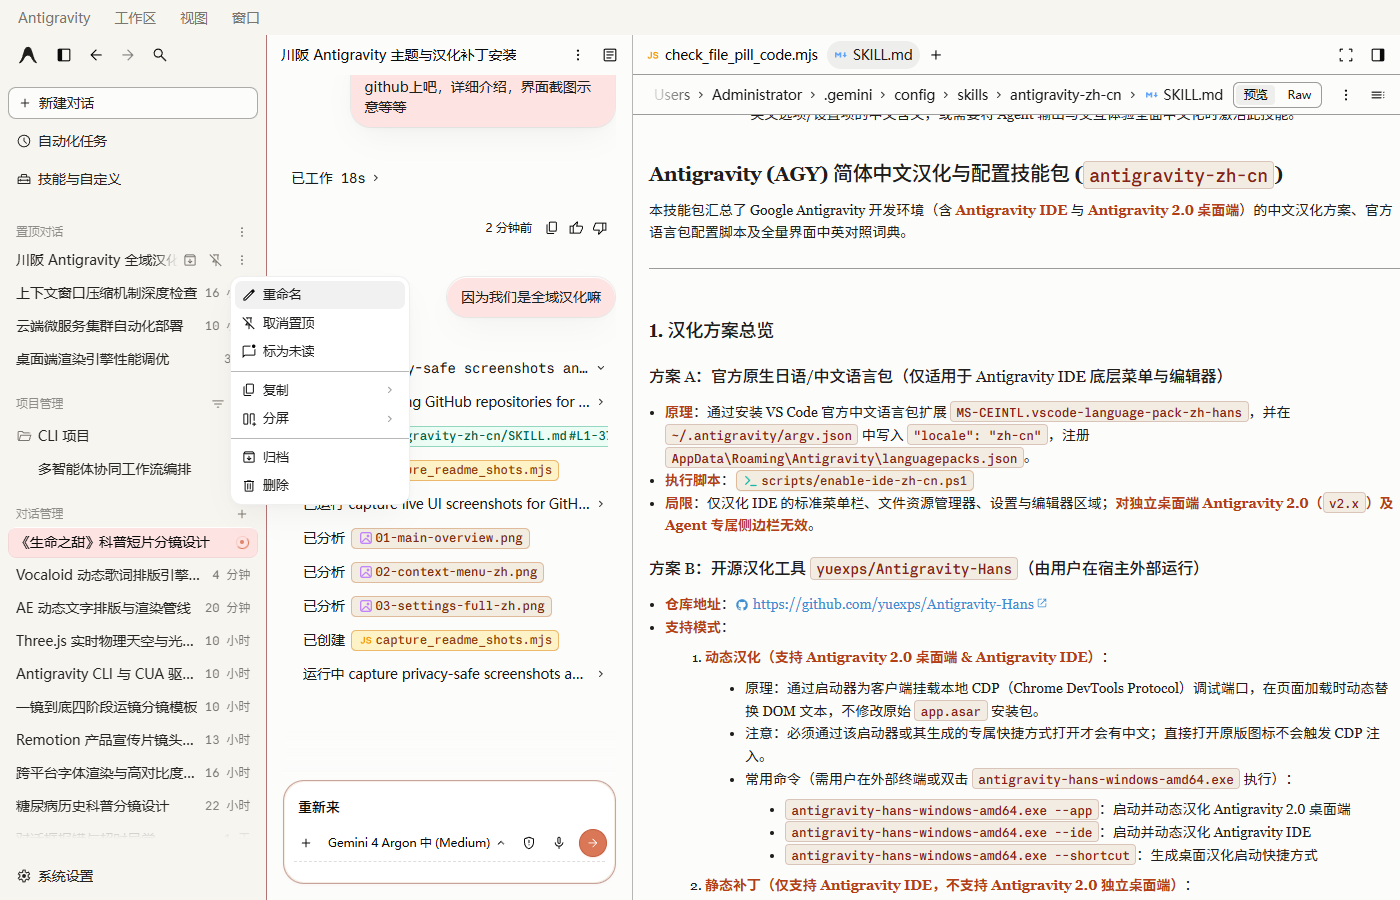
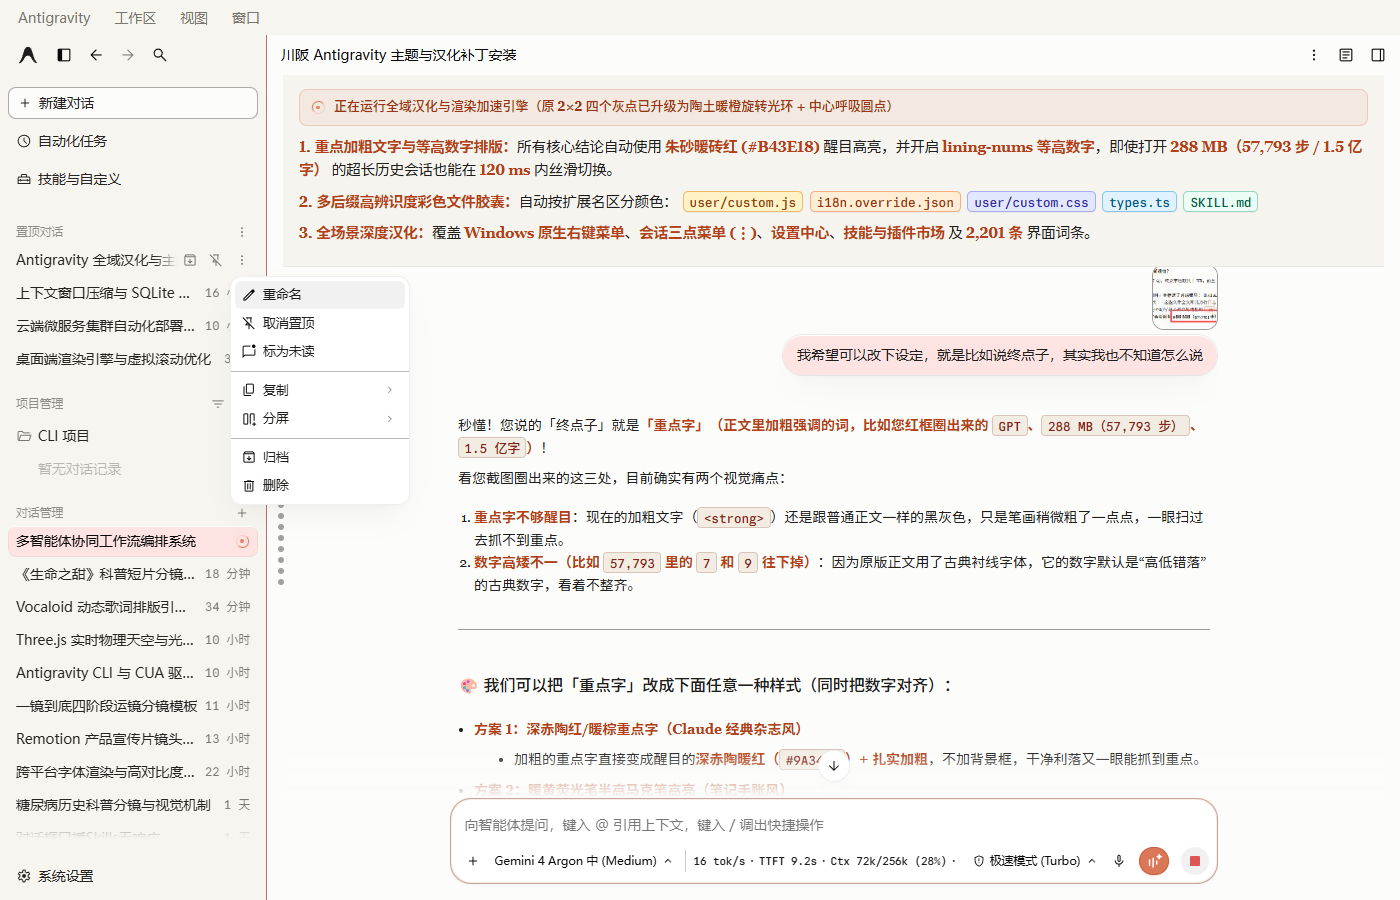
docs: update screenshots with clean UI, visual upgrades closeup (terracotta ring spinner, bold text, 5-color file pills), and comprehensive README

diff --git a/README.md b/README.md
@@ -1,12 +1,12 @@
 # Antigravity 全域汉化与 Claude 暖色主题增强包 (Full-Domain ZH-CN & Theme Skill)
 
 <p align="center">
-  <strong>面向 Google Antigravity 2.0 (Electron) 的零破坏、全场景深度汉化与视觉/性能增强方案（支持作为 Agent Skill 一键调用）</strong>
+  <strong>面向 Google Antigravity 2.0 (Electron) 的零破坏、全场景深度汉化、视觉重塑与长对话防卡顿增强方案（支持作为 Agent Skill 一键调用）</strong>
 </p>
 
 <p align="center">
   <img src="https://img.shields.io/badge/Antigravity-2.0%2B-B43E18?style=flat-square" alt="Antigravity 2.0+" />
-  <img src="https://img.shields.io/badge/i18n_Dictionary-2200%2B_Entries-2E6B9E?style=flat-square" alt="2200+ Entries" />
+  <img src="https://img.shields.io/badge/i18n_Dictionary-2201_Entries-2E6B9E?style=flat-square" alt="2201 Entries" />
   <img src="https://img.shields.io/badge/Core_Integrity-100%25_Clean-2E7D32?style=flat-square" alt="Core Integrity Clean" />
   <img src="https://img.shields.io/badge/License-MIT-7A6A58?style=flat-square" alt="MIT License" />
 </p>
@@ -15,63 +15,81 @@
 > **开源致谢与演进声明 (Credits & Attribution)**
 >
 > 本项目基于 [**@Anarcadia (传伴)**](https://github.com/Anarcadia) 开源的 [**`chuanban-antigravity-theme-patch` (v5.0.0)**](https://github.com/Anarcadia/chuanban-antigravity-theme-patch) 进行深度扩展与二次封装。
-> - **完整保留原作者底层核心架构**：`core/*` 目录下的 CDP 零修改磁盘热注入引擎、四主题 CSS 变量体系（Claude 暖米色 / 深色 / 护眼绿 / 极夜黑）与双通道统计面板 **100% 保持原版未改动**（`coreIntegrity.clean: true`）。
-> - **全量扩展在 `user/*` 用户层与 `SKILL.md` 技能层完成**：词条规模从原版 573 条扩展至 **2,200+ 条全域词典**，攻克了 Windows 原生系统级右键菜单（`showContextMenu` IPC）与三点菜单（`⋮`）无法被 DOM 观察器汉化的难题，并新增了重点文字配色增强、长对话极速防卡顿与 Agent Skill 自动化技能支持。在此向原作者 **@Anarcadia** 致以诚挚谢意！
+> - **完整保留原作者底层核心架构**：`core/*` 目录下的 CDP 零修改磁盘热注入引擎、四主题 CSS 变量体系（Claude 暖米色 / 深色 / 护眼绿 / 极夜黑）、输入框火漆蜡封三态按钮、死锁自愈与底栏实时速率/额度统计面板 **100% 保持原版未改动**（`coreIntegrity.clean: true`）。
+> - **全方位扩展在 `user/*` 用户层与 `SKILL.md` 技能层完成**：词条规模从原版 573 条扩展至 **2,201 条全域词典**，攻克了 Windows 原生系统级右键菜单（`showContextMenu` IPC）与会话三点菜单（`⋮`）无法被 DOM 观察器汉化的难题；将原版死板的 **2×2 四个灰点运行图标升级为 Claude 陶土暖橙动态旋转光环 + 中心呼吸圆点**；新增 **朱砂暖砖红重点字 (`#B43E18`) + 等高数字 (`lining-nums`)**、**五色高辨识度代码文件胶囊**、**四维长对话极速防卡顿优化** 及 **Agent Skill 自动化维护能力**。在此向原作者 **@Anarcadia** 致以诚挚谢意！
 
 ---
 
-## 一、界面实机截图展示 (Screenshots)
+## 一、全方位实机界面截图展示 (Screenshots)
 
-### 1. 主界面总览：Claude 暖米色纸张质感 + 重点字朱砂红 + 彩色文件胶囊 + 双弧旋转指示器
+### 1. 主界面全景：Claude 暖白纸张质感 + 全中文侧边栏 + 陶土橙旋转运行光环 + 底部实时速率胶囊
 ![主界面总览](assets/screenshots/01-main-overview.png)
 
-### 2. 原生系统右键菜单与会话三点菜单 (`⋮`) 100% 汉化
+### 2. 视觉细节特写：陶土橙旋转光环（替代原 2×2 四个灰点）+ 朱砂红重点字 + 等高数字 + 五色文件胶囊
+![视觉细节特写](assets/screenshots/03-visual-upgrades-closeup.png)
+
+### 3. Windows 原生右键菜单与会话三点菜单 (`⋮`) 100% 汉化实拍
 ![右键与三点菜单汉化](assets/screenshots/02-context-menu-zh.png)
 
-### 3. 设置中心 (`Settings`) 全量深度汉化（含二级选项、提示说明与下拉框）
+### 4. 设置中心 (`Settings`) 全量深度汉化（含二级选项、提示说明与下拉框）
 ![设置中心全量汉化](assets/screenshots/03-settings-full-zh.png)
 
-### 4. 技能与插件市场 (`Skills & Plugins`) 列表、分类与详情页汉化
+### 5. 技能与插件市场 (`Skills & Plugins`) 列表、分类货架与详情描述汉化
 ![技能与插件市场汉化](assets/screenshots/04-skills-plugins-zh.png)
 
 ---
 
-## 二、为什么叫「全域汉化」？与原版方案对比
+## 二、全方位增强矩阵：与上游原版逐项对比
 
-| 维度 | 上游原版 (`chuanban-antigravity-theme-patch` v5.0.0) | 本项目 (`antigravity-full-zh-theme-skill` 全域增强版) |
+| 功能维度 | 上游原版 (`chuanban-antigravity-theme-patch` v5.0.0) | 本项目 (`antigravity-full-zh-theme-skill` 全域增强版) |
 | :--- | :--- | :--- |
-| **汉化词条规模** | `core/i18n.json` **573 条**基础界面词条 | `core` + `user/i18n.override.json` 合并 **2,200+ 条**全域词典 |
-| **原生右键菜单 (`Copy`/`Pin`)** | 未汉化（Windows 走 Electron `showContextMenu` 原生系统菜单，绕过 DOM） | **100% 汉化**：按需 120ms 窗口拦截 `VRa` IPC 映射，平时保持 `[native code]` 零性能损耗 |
-| **会话三点菜单 (`⋮`) 与顶栏更多** | 部分遗漏或点击瞬间断连失效 | **100% 汉化**：支持 `重命名`、`置顶/取消置顶`、`标为未读`、`复制`、`分屏`、`归档`、`删除` |
+| **汉化词条规模** | `core/i18n.json` **573 条**基础界面词条 | `core` + `user/i18n.override.json` 合并 **2,201 条**全域词典 |
+| **「正在运行」状态图标** | 原版默认 **2×2 四个灰点** 闪烁，辨识度低 | **升级为 Claude 陶土暖橙 (`#D97757`) 动态旋转光环 + 中心呼吸圆点**（侧边栏与对话区同步生效） |
+| **重点加粗字 (`strong`/`b`) 与数字排版** | 与普通正文同色（黑灰），古典衬线数字 (`57,793`) 高低错落 | **朱砂暖砖红 (`#B43E18`) 醒目高亮**（深色模式自动转琥珀金 `#F0944D`）+ 强制 **`lining-nums` 等高现代数字** |
+| **代码文件胶囊 (`.inline-pill`)** | 默认无背景或单色，与正文混在一起难以分辨 | **按后缀自动赋予五色高辨识度胶囊**：`.js/.mjs` 琥珀金、`.json` 暖橙、`.css` 靛蓝、`.ts/.tsx` 蔚蓝、`.md` 翠绿 |
+| **Windows 原生右键菜单 (`Copy`/`Pin`)** | 未汉化（走 Electron `showContextMenu` 原生系统菜单，绕过 DOM） | **100% 汉化**：按需 120ms 窗口拦截 `VRa` IPC 映射，平时保持 V8 `[native code]` 零性能损耗 |
+| **会话三点菜单 (`⋮`) 与顶栏更多** | 部分遗漏或点击瞬间观察器断连失效 | **100% 汉化**：支持 `重命名`、`置顶/取消置顶`、`标为未读`、`复制`、`分屏`、`归档`、`删除` |
 | **技能 (`Skills`) / 插件 (`Plugins`) / MCP** | 仅主菜单标题汉化 | **全量汉化**：40+ 项内置/常用技能描述、插件市场分类货架、MCP 工具状态与斜杠命令 (`/plan`, `/compact`, `/boost` 等) |
 | **侧边栏相对时间 (`5m`, `17h`, `3mo`)** | 保持英文缩写 | **自动转中文**（`5分钟`、`17小时`、`3个月`、`刚刚`），正则兜底支持任意数字分钟/小时/天/周/月/年 |
 | **新生成会话标题** | 默认生成英文标题 | 自动注入 `<user_rules>` 守卫，所有新建对话**自动使用简体中文生成侧边栏标题** |
-| **重点加粗字 (`strong`/`b`) 与数字排版** | 与正文同色，旧式数字 (`57,793`) 高低错落 | **朱砂暖红 (`#B43E18`) 醒目高亮** + 强制开启 **`lining-nums` 等高现代数字** |
-| **代码文件胶囊 (`.inline-pill`)** | 统一棕黄色背景 | **按扩展名自动分色**：`.js/.mjs` 琥珀金、`.json` 鼠尾草绿、`.css` 雾霾紫、`.ts/.tsx` 湖水蓝、`.md` 暖陶橙、`.py` 钢青色 |
-| **长对话切换与流式打字性能** | 大型 `.db` 会话切换易卡顿 | **`excludeI18n: true`** 隔离流式输出 + **`content-visibility: auto`** 跳过屏外消息排版 + **SQLite 400ms 防抖避让** |
+| **长历史会话切换与流式打字性能** | 几百 MB `.db` 会话切换易卡顿、侧边栏悬停重排耗 CPU | **四维加速**：HarfBuzz 字距关闭 + `content-visibility: auto` 虚拟滚动 + `excludeI18n` 流式隔离 + SQLite 400ms 防抖 |
 | **重启软件保持能力** | 需带参数启动或手动重注 | 内置 **Windows WMI 事件监听守护进程 (`AntigravityThemeDaemon.vbs`)**，任意方式打开软件 1.5 秒内自动无感挂载 |
 
 ---
 
-## 三、核心技术亮点解析
+## 三、七大核心技术与视觉细节详解
 
-### 1. 攻克 Electron 原生右键菜单 (`showContextMenu`) 汉化难题
+### 1. 「正在运行」图标重塑：从 2×2 四个灰点到 Claude 陶土橙旋转光环
+Antigravity 原版的「正在运行 / 思考中」状态（`[data-testid="status-loading-spinner"]`）仅由 4 个暗淡的小灰点（2×2 grid `[data-agent-state-dot]`）组成，在米白纸张背景下极不显眼。
+- 本项目在 [`user/custom.css`](user/custom.css) 中隐藏了原版 4 个灰点，通过 `::after` 与 `::before` 双伪元素构建了 **13px 陶土暖橙 (`#D97757`) 双弧旋转光环 + 3.5px 中心呼吸圆点**（`0.78s` 线性无限顺滑旋转，`will-change: transform` GPU 合成加速，零重绘开销）。
+- 无论是左侧边栏正在后台运行的会话行，还是主聊天窗内的实时执行步骤，一眼即可捕捉当前活跃状态。
+
+### 2. 重点加粗文字朱砂红 (`#B43E18`) + 等高数字 (`lining-nums`)
+针对长篇技术回答中「加粗重点字与普通正文颜色一样、一眼扫过去抓不到重点」以及「古典衬线字体下数字 `3, 4, 5, 7, 9` 上下错位（Old-style figures）」两大痛点：
+- **重点字高亮**：将正文区 `strong` / `b` 设为与暖米色纸张最契合的**朱砂暖砖红 (`#B43E18`，字重 `700`)**；切换到深色/极夜黑主题时自动适配为**琥珀暖金 (`#F0944D`)**。
+- **数字等高对齐**：全局强制开启 `font-variant-numeric: lining-nums tabular-nums !important;`，让 `288 MB (57,793 步)`、`1.5 亿字` 等混合数字底部严丝合缝对齐。
+
+### 3. 多后缀高辨识度代码文件胶囊 (`.inline-pill`)
+原版对话中的文件引用链接默认没有背景色与边框，容易与普通正文混在一起。本项目为 `.inline-pill` 赋予了圆角微阴影胶囊造型，并根据 `data-uri` 文件扩展名自动着色：
+- **`.js` / `.mjs` / `.cjs`**：琥珀金底 (`#FEF3C7`) + 深金棕字 (`#92400E`)
+- **`.json`**：暖杏橙底 (`#FFEDD5`) + 焦糖棕字 (`#9A3412`)
+- **`.css`**：雾霾靛蓝底 (`#E0E7FF`) + 靛青字 (`#3730A3`)
+- **`.ts` / `.tsx`**：蔚蓝底 (`#E0F2FE`) + 深海蓝字 (`#075985`)
+- **`.md`**：翠绿底 (`#D1FAE5`) + 森林绿字 (`#065F46`)
+
+### 4. 攻克 Windows 原生系统右键菜单 (`showContextMenu`) 与三点菜单 (`⋮`) 汉化难题
 在 Windows 端，Antigravity 默认启用了 `contextMenuSystem: { enabled: true, useNativeMenu: true }`。当用户在对话区右键点击或点击会话右侧的 `⋮` 按钮时，前端通过 `VRa(a, b)` 将菜单数组映射后直接通过 IPC 发送给 `window.electronNative.showContextMenu(a)`，由 Windows 操作系统原生绘制菜单，**完全不经过浏览器 DOM 树**，因此常规 `MutationObserver` 无法捕捉。
 
 本项目在 [`user/custom.js`](user/custom.js) 中首创了**「事件触发式瞬时 Hook (`enableTempMenuMapHook`)」**：
 - 仅在用户按下鼠标右键 (`contextmenu`) 或点击菜单触发按钮 (`pointerdown` / `mousedown`) 的 **120 毫秒窗口内**，临时挂载 `Array.prototype.map` 转换器，将传入 IPC 的 `{ id, label, submenu }` 原地翻译为中文；
-- 菜单弹出后立即卸载恢复，保证平时 99.99% 的运行时间里 `Array.prototype.map` 均为 **100% V8 原生 `[native code]`**，绝不拖慢 React 渲染。
+- 菜单弹出后立即卸载恢复，保证平时 99.99% 的运行时间里 `Array.prototype.map` 均为 **100% V8 原生 `[native code]`**，绝不拖慢 React 渲染；同时锁住 `window.__ag_i18n_observer.disconnect`，防止点击侧边栏按钮时观察器断连。
 
-### 2. 为什么打开几百 MB 的老对话框不卡了？
-Antigravity 会将 Agent 执行过程中的所有工具输出、文件读取与终端日志完整保存在本地 `~/.gemini/antigravity/conversations/<id>.db` 中（重度对话可达 100MB~300MB、数万个 Step）。本项目通过三层优化显著提速：
-1. **CSS 视口虚拟化 ([`user/custom.css`](user/custom.css))**：对历史消息块与 `<pre>` 代码块开启 `content-visibility: auto; contain-intrinsic-size: auto 120px;`，浏览器仅排版当前屏幕可见的几条消息，跳过屏外上万行 DOM 计算。
-2. **流式输出隔离 ([`user/config.json`](user/config.json))**：开启 `excludeI18n: true`，在 AI 高速打字输出与代码块渲染期间跳过无意义的字典扫描。
-3. **SQLite 磁盘 I/O 避让 ([`user/custom.js`](user/custom.js))**：对 `window.__agRequestMetrics` 施加 400ms 防抖延迟，避免切换会话瞬间与 `language_server` 争抢 SQLite 文件锁。
-
-### 3. 精心调校的阅读排版与视觉细节
-- **重点加粗文字 (`strong` / `b`)**：采用与米白纸张底色 (`#F7F3EA`) 最契合的**朱砂暖砖红 (`#B43E18`)**，醒目提炼长文核心结论且久看不刺眼。
-- **数字等高对齐 (`font-variant-numeric: lining-nums`)**：彻底修复衬线体下数字 `3, 4, 5, 7, 9` 下沉导致的视觉参差感（如 `288 MB (57,793 步)`、`1.5 亿字` 底部严丝合缝对齐）。
-- **双弧旋转指示器 (`ag-spin`)**：将原本生硬闪烁的 `Thinking` 静态圆点替换为顺滑旋转的双弧暖橙色动态加载环。
+### 5. 四维性能防卡顿提速（彻底解决几百 MB 老对话框打开慢）
+Antigravity 会将 Agent 执行过程中的所有工具输出、文件读取与终端日志完整保存在本地 `~/.gemini/antigravity/conversations/<id>.db` 中（重度对话可达 100MB~300MB、数万个 Step）。本项目通过四层优化显著提速：
+1. **关闭侧边栏超大字体复杂字距重算 ([`user/custom.css`](user/custom.css))**：对侧边栏启用 `text-rendering: auto !important` 与 `contain: layout style`，避免 65MB 字体在鼠标划过侧边栏时高频触发 HarfBuzz 字距重算。
+2. **历史长对话虚拟滚动加速 ([`user/custom.css`](user/custom.css))**：对历史问答块 (`.scroll-mt-4`) 与 `<pre>` 代码块开启 `content-visibility: auto`，浏览器仅排版当前屏幕可见的几条消息，跳过屏外上万行 DOM 计算。
+3. **流式输出隔离 ([`user/config.json`](user/config.json))**：开启 `excludeI18n: true`，在 AI 高速打字输出与代码块渲染期间跳过无意义的字典扫描。
+4. **SQLite 磁盘 I/O 避让 ([`user/custom.js`](user/custom.js))**：对 `window.__agRequestMetrics` 施加 400ms 防抖延迟，避免切换会话瞬间与 `language_server` 争抢 SQLite 文件锁。
 
 ---
 
@@ -120,13 +138,13 @@ antigravity-full-zh-theme-skill/
 │   └── manifest.json             # 核心文件 SHA-256 完整性校验清单
 ├── user/                         # [全域扩展层] 所有汉化增强、右键拦截与样式定制均在此处
 │   ├── config.json               # 启用 excludeI18n、双通道监控与主题预设
-│   ├── custom.css                # 朱砂红重点字、lining-nums 数字对齐、彩色文件胶囊、长对话性能优化
-│   ├── custom.js                 # 原生右键/三点菜单瞬时拦截、相对时间汉化、SQLite 防抖与观察器防断连
+│   ├── custom.css                # 陶土橙旋转光环、朱砂红重点字、lining-nums、五色文件胶囊、虚拟滚动提速
+│   ├── custom.js                 # 原生右键/三点菜单 120ms 瞬时拦截、相对时间汉化、SQLite 防抖与观察器防断连
 │   └── i18n.override.json        # 1,746+ 条扩展词典（覆盖右键、设置、技能、插件、MCP、斜杠命令）
 ├── scripts/
 │   └── localize-local-skills.mjs # 本地 SKILL.md / plugin.json 描述一键汉化工具（带 .bak 备份）
 ├── assets/
-│   └── screenshots/              # 界面实机截图展示 (01 ~ 04)
+│   └── screenshots/              # 5 张实机高清截图展示 (主界面、视觉特写、右键菜单、设置、技能市场)
 ├── AntigravityThemeDaemon.vbs    # Windows WMI 零弹窗后台自动热注入守护脚本
 ├── SKILL.md                      # Antigravity 技能定义文件（支持 AI 自动维护与热更新）
 ├── install.mjs                   # 跨平台一键安装与热更新脚本
@@ -137,6 +155,6 @@ antigravity-full-zh-theme-skill/
 
 ## 六、致谢与开源协议 (Credits & License)
 
-- **上游基础项目**：[**Anarcadia/chuanban-antigravity-theme-patch**](https://github.com/Anarcadia/chuanban-antigravity-theme-patch) — 感谢 **@Anarcadia (传伴)** 设计的无侵入式 CDP 注入架构、四套精美主题配色与双通道统计面板。
-- **全域汉化与性能/视觉扩展**：[**@joker124zx**](https://github.com/joker124zx) — 扩展 2,200+ 全域词典、攻克原生右键与三点菜单汉化、优化长历史对话卡顿并封装为 Agent Skill。
+- **上游基础项目**：[**Anarcadia/chuanban-antigravity-theme-patch**](https://github.com/Anarcadia/chuanban-antigravity-theme-patch) — 感谢 **@Anarcadia (传伴)** 设计的无侵入式 CDP 注入架构、四套精美主题配色、火漆蜡封按钮与双通道统计面板。
+- **全域汉化与视觉/性能扩展**：[**@joker124zx**](https://github.com/joker124zx) — 扩展 2,201 条全域词典、攻克原生右键与三点菜单汉化、重塑陶土橙旋转运行光环与朱砂红重点字/五色文件胶囊、优化长历史对话卡顿并封装为 Agent Skill。
 - **开源协议**：本项目遵循 [MIT License](LICENSE) 开源协议。
